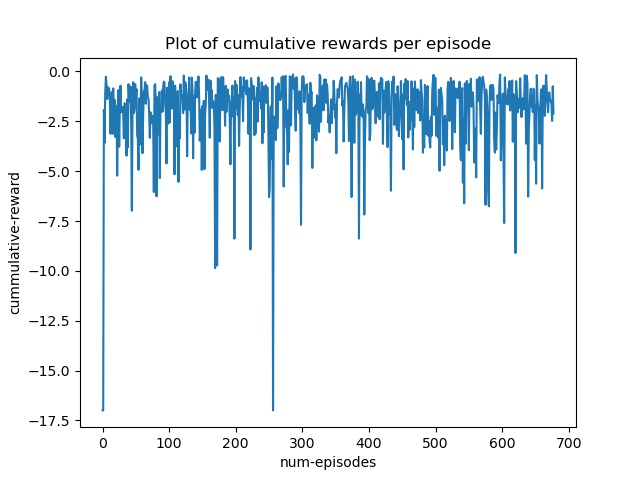
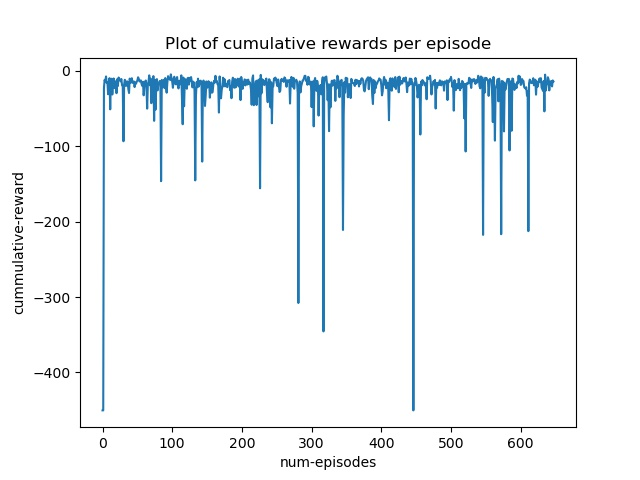
Added object wrench tracking to the reward function.

diff --git a/examples/pybullet/gym/pybullet_envs/swe_gym/swe_step.py b/examples/pybullet/gym/pybullet_envs/swe_gym/swe_step.py
@@ -25,12 +25,18 @@ class StepCoopEnv(ResetCoopEnv):
     self.constraint_set = False
     self.ee_constraint = 0
     self.ee_constraint_reward = 0 # This helps ensure that the grasp constraint is not violated.
+    self.desired_obj_wrench = None
+    self.desired_eeA_wrench = None
+    self.desired_eeB_wrench = None
+    self.action = None
+    self.grasp_matrix = None
     self.env_state = {}
     self.ComputeEnvState(p)
 
 
   def apply_action(self, action, p):
     assert len(action) == 12
+    self.action = np.array(action)
     self.ComputeEnvState(p)
     computed_joint_torques_robot_A = self.GetJointTorques(self.robotId_A, action, p)
     computed_joint_torques_robot_B = self.GetJointTorques(self.robotId_B, action, p)
@@ -78,10 +84,15 @@ class StepCoopEnv(ResetCoopEnv):
     # get pose error of the bar and done condition
     obj_pose_error = self.GetPoseError()
     obj_pose_error_norm = np.linalg.norm(obj_pose_error)
-    done, info = self.CheckDone(obj_pose_error_norm)
 
-    # Naive reward definition
-    reward = -obj_pose_error_norm**2
+    # wrench_error_norm is the difference between the desired object wrench and the wrench obtained from the grasp matrix.
+    corrected_eeA_wrench = self.desired_eeA_wrench + self.action[:6]
+    corrected_eeB_wrench = self.desired_eeB_wrench + self.action[6:]
+    corrected_ee_wrench = np.concatenate((corrected_eeA_wrench, corrected_eeB_wrench))
+    wrench_error = self.desired_obj_wrench - self.grasp_matrix.dot(corrected_ee_wrench)
+    wrench_error_norm = np.linalg.norm(wrench_error)
+
+    reward = -(obj_pose_error_norm**2 + wrench_error_norm**2)
     return reward
 
   def GetPoseError(self):
@@ -228,8 +239,10 @@ class StepCoopEnv(ResetCoopEnv):
     #   count -= 1
     
     if robot == self.robotId_A:
+      self.desired_eeA_wrench = wrench[:6]
       return wrench[:6]
     else:
+      self.desired_eeB_wrench = wrench[6:]
       return wrench[6:]
   
   def ComputeDesiredObjectWrench(self, p):
@@ -246,6 +259,7 @@ class StepCoopEnv(ResetCoopEnv):
     obj_mass_matrix = np.eye(6)
     desired_obj_wrench = obj_mass_matrix.dot(Kp * obj_pose_error + Kv * obj_vel_error) + obj_coriolis_vector + np.array(obj_gravity_vector)
     # desired_obj_wrench = Kp * obj_pose_error + Kv * obj_vel_error
+    self.desired_obj_wrench = desired_obj_wrench
     return desired_obj_wrench
   
   def ComputeGraspMatrix(self, p):
@@ -254,6 +268,7 @@ class StepCoopEnv(ResetCoopEnv):
     top_three_rows = np.hstack((np.eye(3), np.zeros((3, 3)), np.eye(3), np.zeros((3, 3))))
     bottom_three_rows = np.hstack((self.skew(rp_A), np.eye(3), self.skew(rp_B), np.eye(3)))
     grasp_matrix = np.vstack((top_three_rows, bottom_three_rows))
+    self.grasp_matrix = grasp_matrix
     return grasp_matrix
 
   def skew(self, vector): 

diff --git a/examples/pybullet/gym/pybullet_envs/swe_gym/swe_train.py b/examples/pybullet/gym/pybullet_envs/swe_gym/swe_train.py
@@ -20,7 +20,7 @@ action_noise = OrnsteinUhlenbeckActionNoise(mean=np.zeros(n_actions), sigma=floa
 class CustomPolicy(FeedForwardPolicy):
     def __init__(self, *args, **kwargs):
         super(CustomPolicy, self).__init__(*args, **kwargs, act_fun=tf.nn.tanh,
-                                           net_arch=[36, 32, 32, dict(pi=[32, 32, 12], vf=[32, 32, 1])],
+                                           net_arch=[32, 32, dict(pi=[32, 32, 12], vf=[32, 32, 1])],
                                            feature_extraction="mlp")
 
 model = PPO2(CustomPolicy, env, verbose=1)
